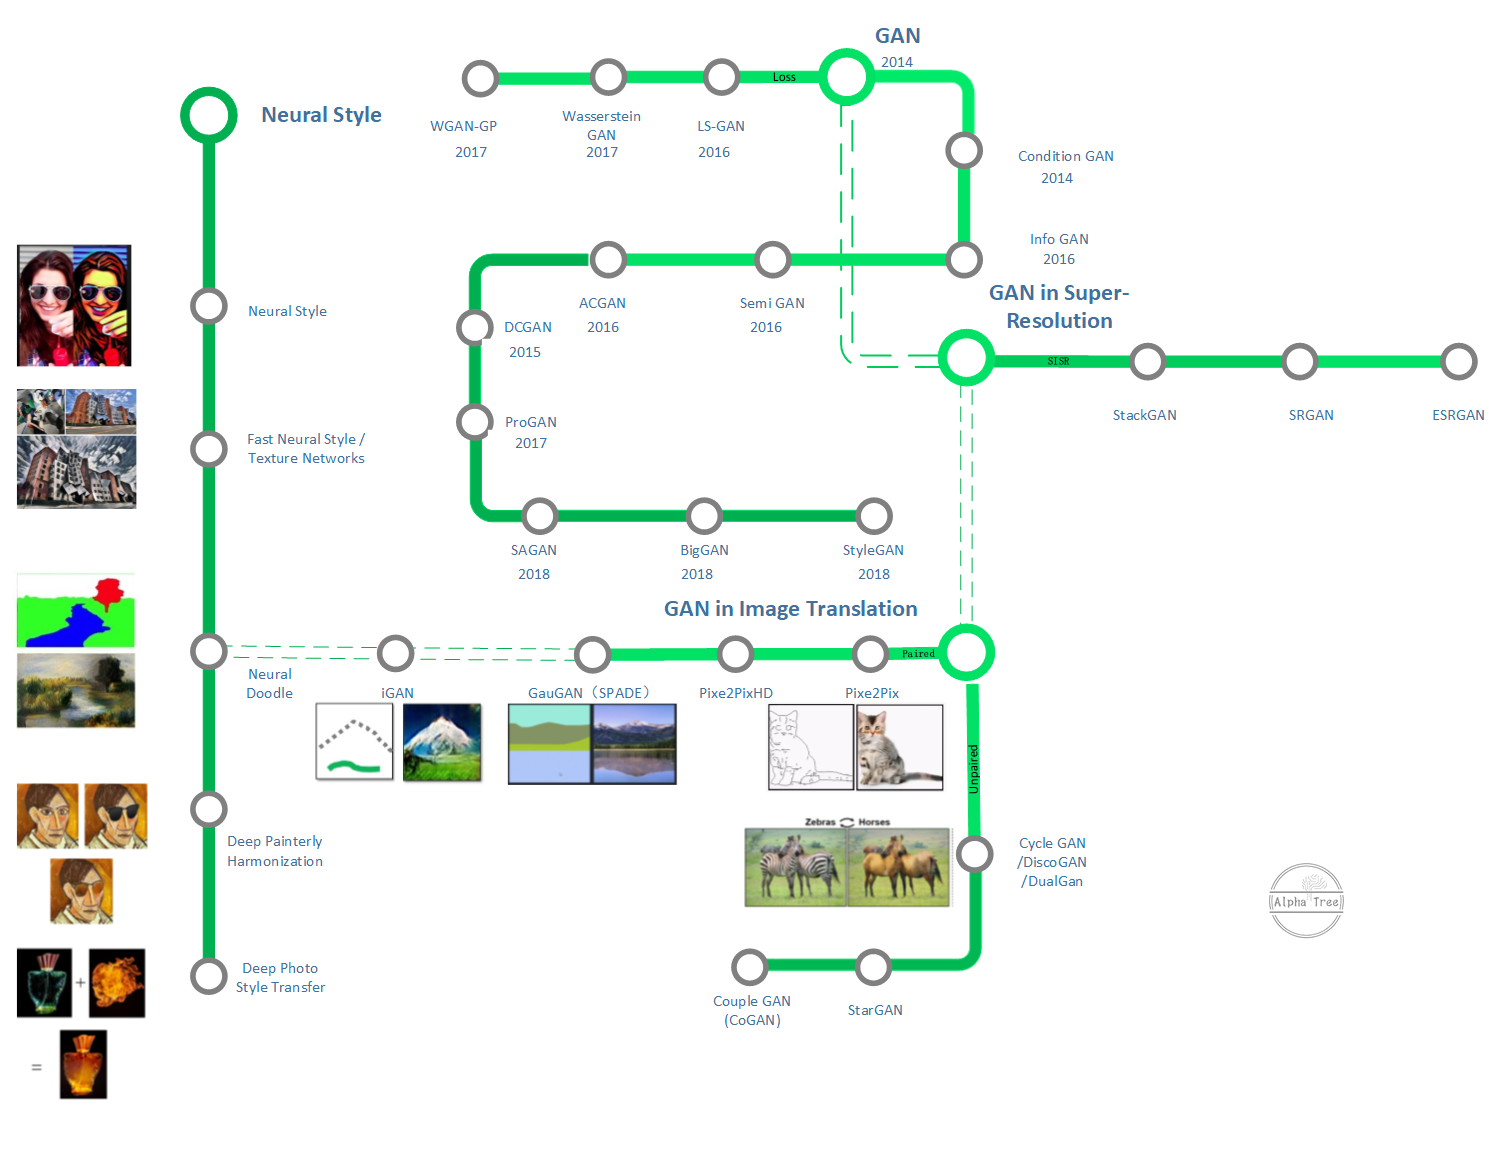
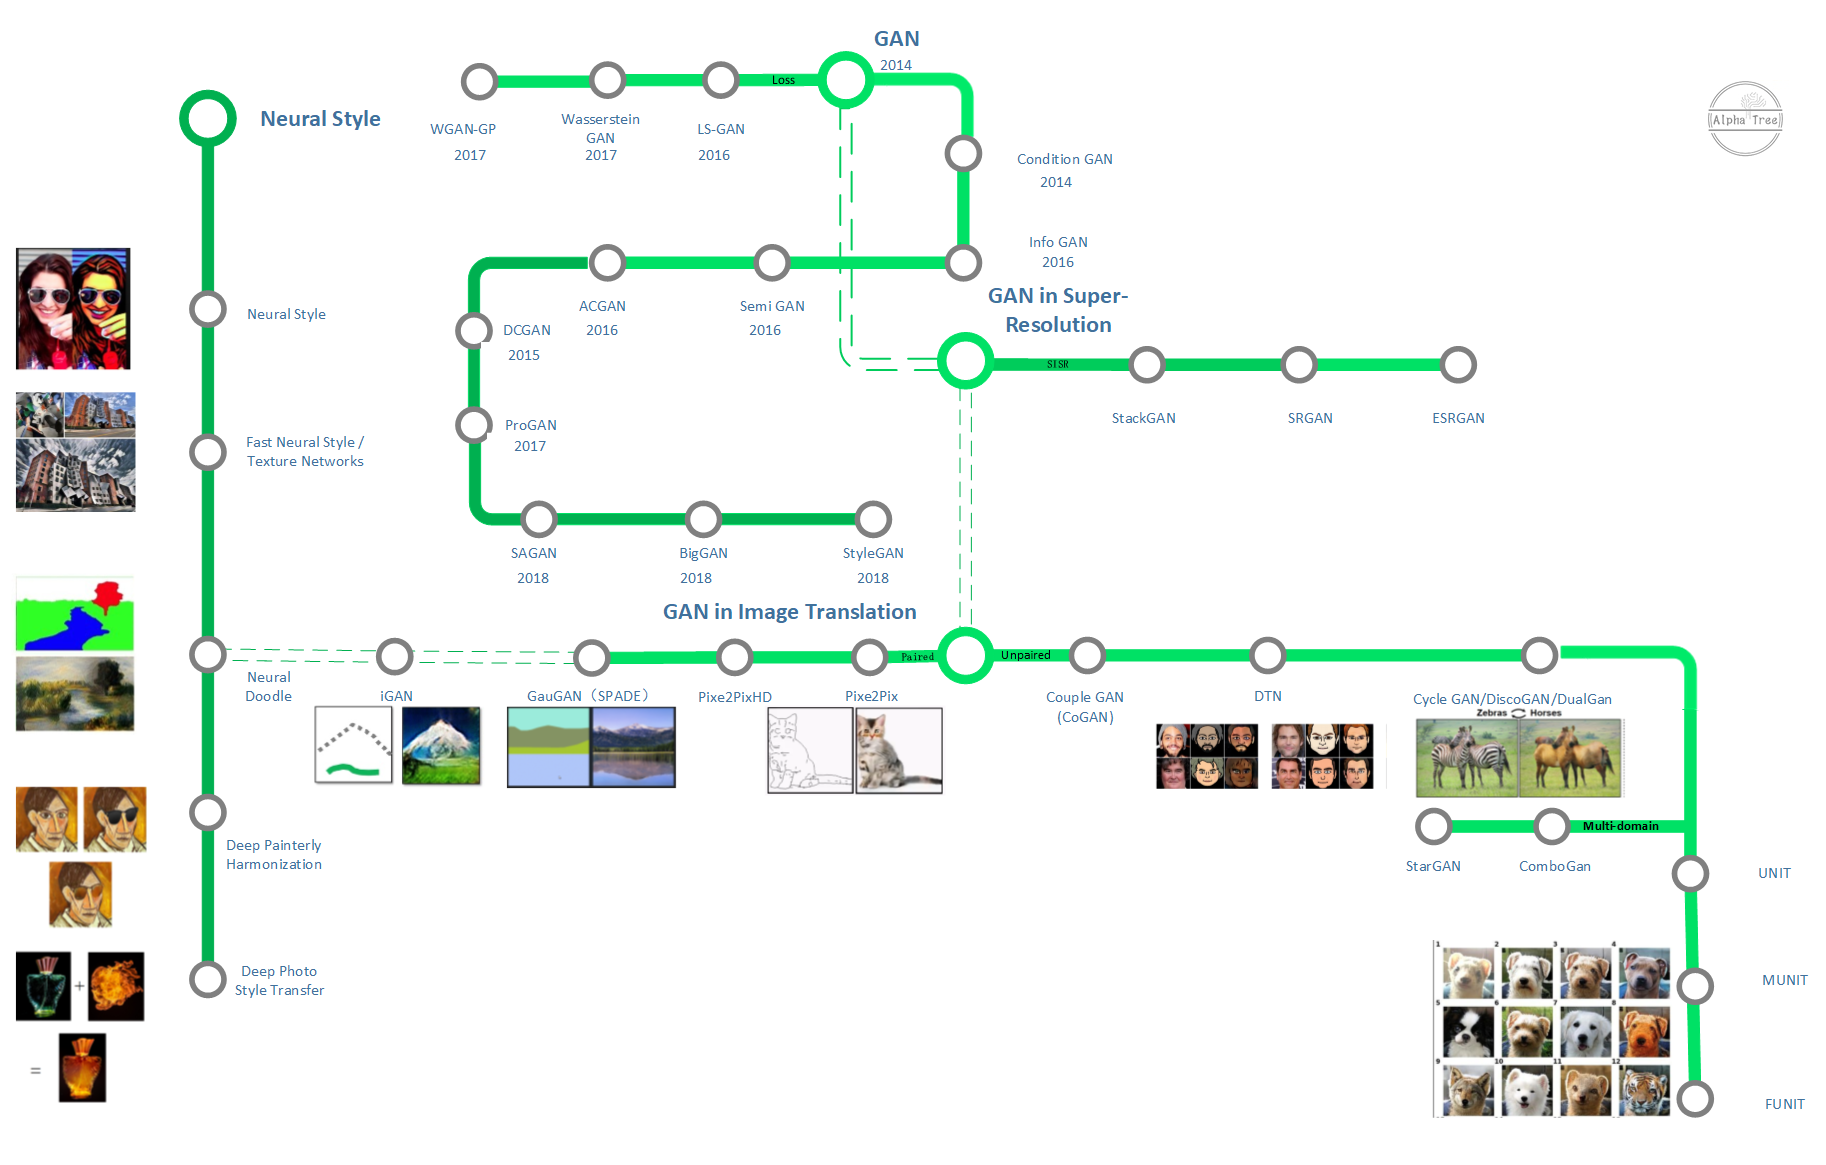
gan

Changed region(s): [[0.0, 0.0, 0.982, 0.9671], [0.9206, 0.0624, 0.982, 0.1248]]

diff --git a/README.md b/README.md
@@ -65,7 +65,7 @@ https://github.com/weslynn/AlphaTree-graphic-deep-neural-network/tree/master/GAN
 
 
 
-<a href="https://raw.githubusercontent.com/weslynn/graphic-deep-neural-network/master/map/mapclean_1.4.png"> <img src="https://github.com/weslynn/graphic-deep-neural-network/blob/master/map/mapclean_1.4.png" width="1200"> </a>
+<a href="https://raw.githubusercontent.com/weslynn/graphic-deep-neural-network/master/map/mapclean_1.5.png"> <img src="https://github.com/weslynn/graphic-deep-neural-network/blob/master/map/mapclean_1.5.png" width="1200"> </a>
 
 
 [大图链接](https://raw.githubusercontent.com/weslynn/graphic-deep-neural-network/master/map/mapclean_1.4.png)
